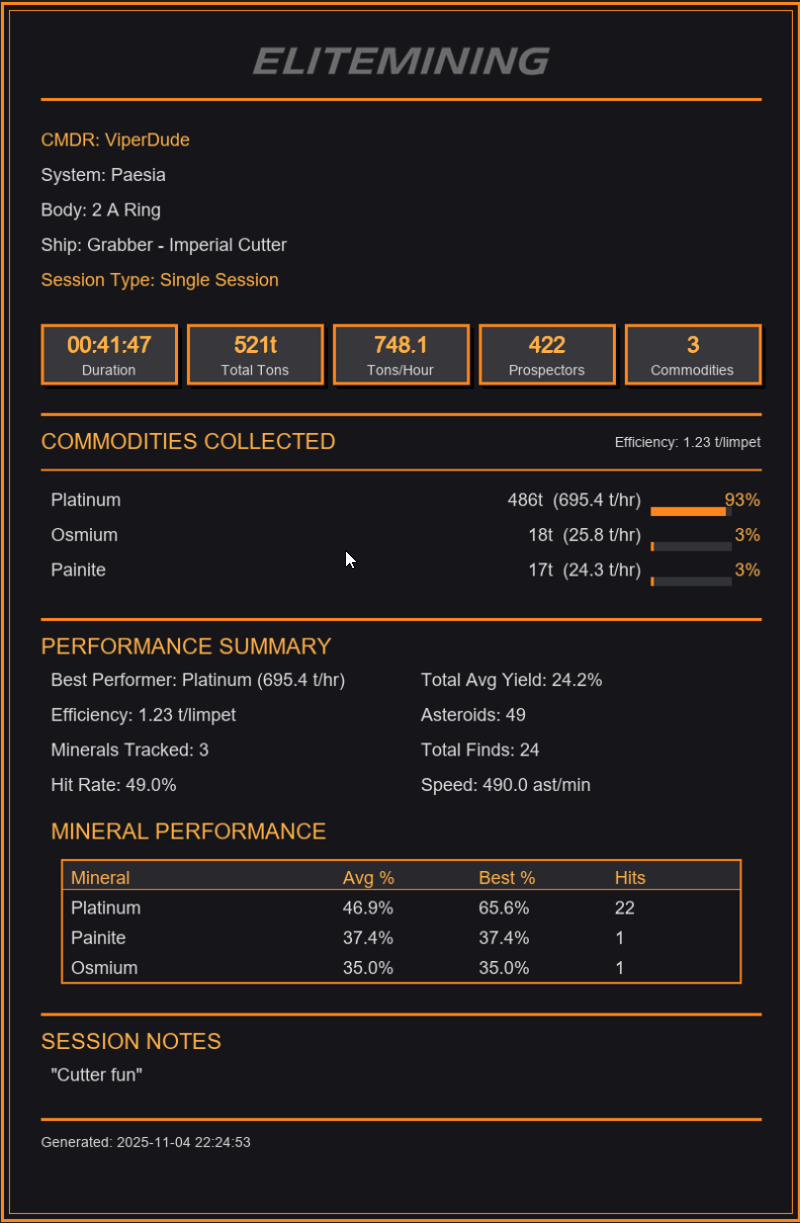
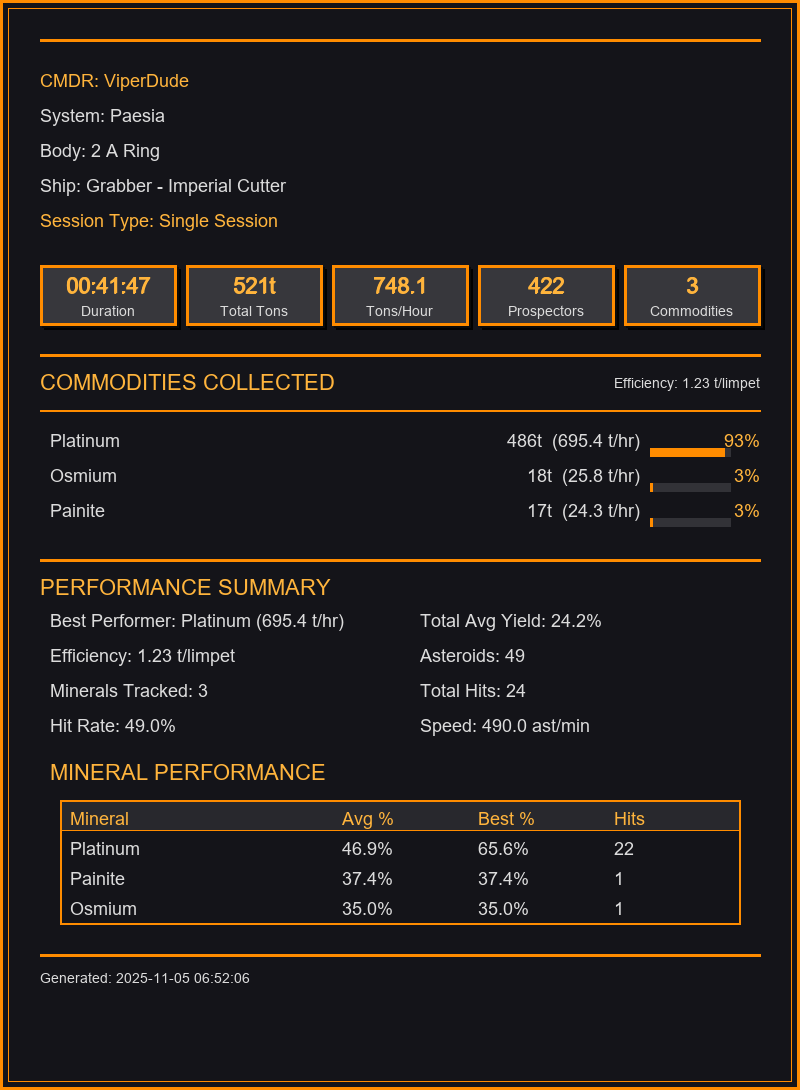
Change 'Total Finds' to 'Total Hits' in mining cards

Changed region(s): [[0.0, 0.0, 1.0, 1.0]]

diff --git a/app/mining_card_generator.py b/app/mining_card_generator.py
@@ -368,11 +368,11 @@ def generate_mining_card(session_data, output_path, cmdr_info=None):
                 draw.text((col2_x, y_position), f"Asteroids: {asteroids_prospected}", fill=TEXT_COLOR, font=body_font)
             y_position += LINE_HEIGHT
             
-            # Row 3: Minerals Tracked | Total Finds
+            # Row 3: Minerals Tracked | Total Hits
             if materials_tracked > 0:
                 draw.text((col1_x, y_position), f"Minerals Tracked: {materials_tracked}", fill=TEXT_COLOR, font=body_font)
             if total_finds > 0:
-                draw.text((col2_x, y_position), f"Total Finds: {total_finds}", fill=TEXT_COLOR, font=body_font)
+                draw.text((col2_x, y_position), f"Total Hits: {total_finds}", fill=TEXT_COLOR, font=body_font)
             y_position += LINE_HEIGHT
             
             # Row 4: Hit Rate | Prospecting Speed
